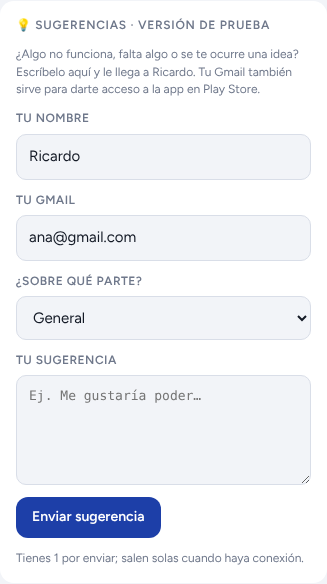
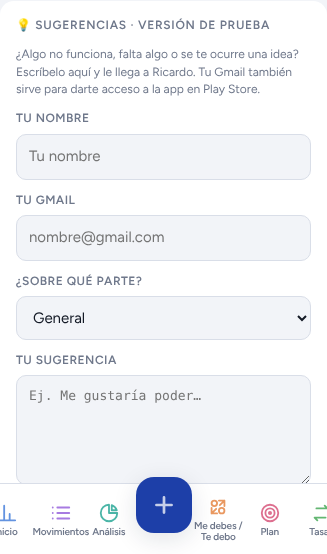
Actualiza la app (v32): instalable en el teléfono
Publica manifest, service worker e íconos junto a la app, y renueva la
caché del service worker en cada publicación.

Claude-Session: https://claude.ai/code/session_016eEKr5AV81AkUUWj8yiqi4

diff --git a/app/index.html b/app/index.html
@@ -345,6 +345,11 @@ body.locked .app, body.locked nav.tabs, body.locked #sheetRoot, body.locked #onb
 .lock input { font: inherit; font-size: 22px; text-align: center; letter-spacing: .3em; padding: 12px; border-radius: 12px; border: 1px solid var(--line); background: var(--surface); color: var(--ink); width: 100%; }
 .lock .primary { width: 100%; }
 .lock .linkbtn { justify-self: center; }
+#instRoot .sheet-bg { position: fixed; inset: 0; background: rgba(10, 14, 24, .45); z-index: 60; }
+#instRoot .sheet.inst { position: fixed; left: 0; right: 0; bottom: 0; z-index: 61; background: var(--surface); border-radius: 22px 22px 0 0; padding: 20px 16px calc(20px + env(safe-area-inset-bottom, 0px)); display: grid; gap: 12px; max-width: 560px; margin: 0 auto; box-shadow: var(--shadow); animation: up .3s ease-out; }
+.inst-top { display: flex; gap: 12px; align-items: center; }
+.inst-top h2 { margin: 0 0 4px; }
+.inst-pet svg { width: 76px; height: 76px; display: block; }
 .lock .lk-forgot { margin-top: 16px; font-size: 13px; }
 </style>
 
@@ -1421,7 +1426,7 @@ function viewTasas() {
 // ---------- Sugerencias (solo versión de prueba) ----------
 // Se envían a un Google Form de Ricardo; él las ve en la hoja de respuestas.
 // Para conectarlo: pega aquí el id del formulario y los entry.N de cada pregunta (salen del enlace prellenado).
-const APP_VER = 'v30';
+const APP_VER = 'v32';
 const SUGG = { form: '', name: '', email: '', text: '', meta: '' };
 const TEST_BUILD = /github\.io$|^localhost$|^127\.0\.0\.1$/.test(location.hostname);
 const suggReady = () => !!(SUGG.form && SUGG.name && SUGG.email && SUGG.text);
@@ -1451,7 +1456,7 @@ function viewAjustes() {
   </section>
   ${TEST_BUILD ? `<section class="card sugg"><div class="label">💡 ${T('Sugerencias · versión de prueba', 'Suggestions · test version')}</div>
     <p class="note">${T('¿Algo no funciona, falta algo o se te ocurre una idea? Escríbelo aquí y le llega a Ricardo. Tu Gmail también sirve para darte acceso a la app en Play Store.', 'Something broken or an idea? Write it here.')}</p>
-    <div class="field"><label for="sgName">${T('Tu nombre', 'Your name')}</label><input id="sgName" maxlength="40" value="${esc((lsGet('cc.suggMe', {}) || {}).name || uname())}"></div>
+    <div class="field"><label for="sgName">${T('Tu nombre', 'Your name')}</label><input id="sgName" maxlength="40" autocomplete="name" placeholder="${T('Tu nombre', 'Your name')}" value="${esc((lsGet('cc.suggMe', {}) || {}).name || '')}"></div>
     <div class="field"><label for="sgMail">${T('Tu Gmail', 'Your Gmail')}</label><input id="sgMail" type="email" inputmode="email" autocomplete="email" maxlength="80" placeholder="nombre@gmail.com" value="${esc((lsGet('cc.suggMe', {}) || {}).email || '')}"></div>
     <div class="field"><label for="sgWhere">${T('¿Sobre qué parte?', 'Which part?')}</label><select id="sgWhere">${[T('General', 'General'), T('Inicio', 'Home'), T('Movimientos', 'Entries'), T('Análisis', 'Insights'), T('Me debes / Te debo', 'Loans'), T('Plan', 'Plan'), T('Tasas', 'Rates'), T('Mascota', 'Pet'), T('Bloqueo con huella', 'Lock'), T('Avisos del banco', 'Bank alerts')].map(x => `<option>${esc(x)}</option>`).join('')}</select></div>
     <div class="field"><label for="sgText">${T('Tu sugerencia', 'Your suggestion')}</label><textarea id="sgText" maxlength="1500" placeholder="${T('Ej. Me gustaría poder…', 'e.g. I would like to…')}"></textarea></div>
@@ -2487,6 +2492,51 @@ petIdleLoop();
 if (window.claude && window.claude.use) window.claude.use('sample').then(sm => { SMP = sm; if (sm) sm.limits().then(l => { PM.img = (l && l.images) || null; if (S.tab === 'pagomovil') render(); }).catch(() => {}); }).catch(() => {});
 if (window.claude && window.claude.use) window.claude.use('downloads').then(d => { dl = d; if (d && S.tab === 'movs') render(); }).catch(() => {});
 
+
+// ---------- Instalar en la pantalla de inicio (solo la versión de GitHub) ----------
+// Al abrir la app en el navegador, te ofrece instalarla de una vez. Si Chrome no muestra su
+// ventana de instalación, explica cómo hacerlo a mano.
+const INST = { evt: null, shown: false };
+const standalone = () => (window.matchMedia && matchMedia('(display-mode: standalone)').matches) || navigator.standalone === true;
+if (TEST_BUILD) {
+  const head = document.head || document.getElementsByTagName('head')[0];
+  if (head && !document.querySelector('link[rel=manifest]')) {
+    [['manifest', 'manifest.webmanifest'], ['apple-touch-icon', 'icons/apple-touch-icon.png'], ['icon', 'icons/icon-192.png']].forEach(([rel, href]) => { const l = document.createElement('link'); l.rel = rel; l.href = href; head.appendChild(l); });
+    const m = document.createElement('meta'); m.name = 'theme-color'; m.content = '#1d3fa8'; head.appendChild(m);
+  }
+  if ('serviceWorker' in navigator) navigator.serviceWorker.register('sw.js').catch(() => {});
+  window.addEventListener('beforeinstallprompt', e => { e.preventDefault(); INST.evt = e; if (INST.shown) instDraw(); });
+  window.addEventListener('appinstalled', () => { instClose(); lsSet('cc.instDone', true); toast(T('¡Listo! Cuentas Claras ya está en tu pantalla de inicio.', 'Installed!')); });
+  setTimeout(instMaybe, 1500);
+}
+function instMaybe() {
+  if (standalone() || lsGet('cc.instDone', false)) return;
+  const no = lsGet('cc.instNo', 0); if (no && Date.now() - no < 3 * 864e5) return;
+  // espera a que termine el bloqueo o la bienvenida
+  if (document.body.classList.contains('locked') || ($('#onbRoot') && $('#onbRoot').innerHTML.trim())) return void setTimeout(instMaybe, 800);
+  INST.shown = true; instDraw();
+}
+function instDraw() {
+  let r = document.getElementById('instRoot'); if (!r) { r = document.createElement('div'); r.id = 'instRoot'; document.body.appendChild(r); }
+  const ios = /iPhone|iPad|iPod/.test(navigator.userAgent);
+  const pet = petOn() ? petSVG(S.cfg.mascot.kind, 'happy') : '';
+  r.innerHTML = `<div class="sheet-bg" data-inst="no"></div><div class="sheet inst" role="dialog" aria-modal="true" aria-labelledby="instT">
+    <div class="inst-top">${pet ? `<span class="inst-pet">${pet}</span>` : ''}<div><h2 id="instT">${T('Instala Cuentas Claras', 'Install Cuentas Claras')}</h2><p class="note">${T('Queda en tu pantalla de inicio como una app: abre con un toque, a pantalla completa y funciona sin internet.', 'Adds it to your home screen like an app.')}</p></div></div>
+    ${INST.evt ? `<button class="primary" data-inst="go">📲 ${T('Instalar ahora', 'Install now')}</button>`
+      : `<ol class="steps">${ios
+        ? `<li>${T('Toca el botón <b>Compartir</b> (el cuadrito con la flecha hacia arriba).', 'Tap Share.')}</li><li>${T('Elige <b>Agregar a inicio</b>.', 'Choose Add to Home Screen.')}</li><li>${T('Toca <b>Agregar</b>.', 'Tap Add.')}</li>`
+        : `<li>${T('Toca los <b>tres puntos ⋮</b> de Chrome, arriba a la derecha.', 'Tap Chrome ⋮ menu.')}</li><li>${T('Elige <b>Instalar app</b> o <b>Agregar a la pantalla principal</b>.', 'Choose Install app.')}</li><li>${T('Confirma con <b>Instalar</b>.', 'Confirm Install.')}</li>`}</ol>
+        <button class="primary" data-inst="ok">${T('Entendido', 'Got it')}</button>`}
+    <button class="linkbtn" data-inst="no" style="justify-self:center">${T('Ahora no', 'Not now')}</button></div>`;
+}
+function instClose() { const r = document.getElementById('instRoot'); if (r) r.remove(); }
+document.addEventListener('click', async e => {
+  const b = e.target.closest && e.target.closest('[data-inst]'); if (!b) return;
+  const a = b.dataset.inst;
+  if (a === 'go' && INST.evt) { const ev = INST.evt; INST.evt = null; ev.prompt(); try { const c = await ev.userChoice; if (c.outcome === 'accepted') { lsSet('cc.instDone', true); instClose(); return; } } catch (err) {} instDraw(); return; }
+  if (a === 'no') lsSet('cc.instNo', Date.now());
+  instClose();
+});
 if (document.body.classList.contains('locked')) { lockDraw(); if (LOCK.cred) setTimeout(() => tryBio(true), 250); }
 window.__cc = { finHealth, finRate, finBreak, fixedDays, viewBalance, planCalc, pmParseText, PM, remDue, remCheck, JOKES, petNext, pockets, savedNet, ONB, petSVG, PET, petPool, parseDate, parseAmount, splitCSV, guessCat, advice, demoData, balanceNow, conv, S };
 })();

diff --git a/app/sw.js b/app/sw.js
@@ -1,0 +1,24 @@
+// Cuentas Claras: guarda la app en el teléfono para que abra rápido y sin conexión.
+// Sube CACHE cada vez que publiques una versión nueva.
+const CACHE = 'cc-v32';
+const SHELL = ['./', './index.html', './manifest.webmanifest', './icons/icon-192.png', './icons/icon-512.png', './icons/maskable-512.png', './icons/apple-touch-icon.png'];
+
+self.addEventListener('install', e => {
+  e.waitUntil(caches.open(CACHE).then(c => c.addAll(SHELL)).then(() => self.skipWaiting()));
+});
+
+self.addEventListener('activate', e => {
+  e.waitUntil(caches.keys().then(ks => Promise.all(ks.filter(k => k !== CACHE).map(k => caches.delete(k)))).then(() => self.clients.claim()));
+});
+
+self.addEventListener('fetch', e => {
+  const req = e.request;
+  if (req.method !== 'GET' || new URL(req.url).origin !== location.origin) return; // tasas, formularios, etc. van directo
+  // Primero la red (para recibir actualizaciones); si no hay conexión, lo guardado.
+  e.respondWith(
+    fetch(req).then(res => {
+      if (res.ok) { const copy = res.clone(); caches.open(CACHE).then(c => c.put(req, copy)); }
+      return res;
+    }).catch(() => caches.match(req).then(r => r || (req.mode === 'navigate' ? caches.match('./index.html') : undefined)))
+  );
+});

diff --git a/README.md b/README.md
@@ -3,6 +3,7 @@
 App minimalista para llevar las finanzas personales: gastos e ingresos en Bs o USD, tasas BCV y USDT, ahorro, plan de pagos y consejos sobre qué gastos se pueden recortar.
 
 - `app/index.html`: la app completa en un solo archivo.
+- `app/manifest.webmanifest`, `app/sw.js`, `app/icons/`: lo que permite instalarla en el teléfono. La caché del `sw.js` se renueva sola en cada publicación.
 - `capturas/`: imágenes de apoyo (pasos para Android, etc.).
 - Cada cambio en `main` se publica solo en GitHub Pages (`.github/workflows/pages.yml`).
 
